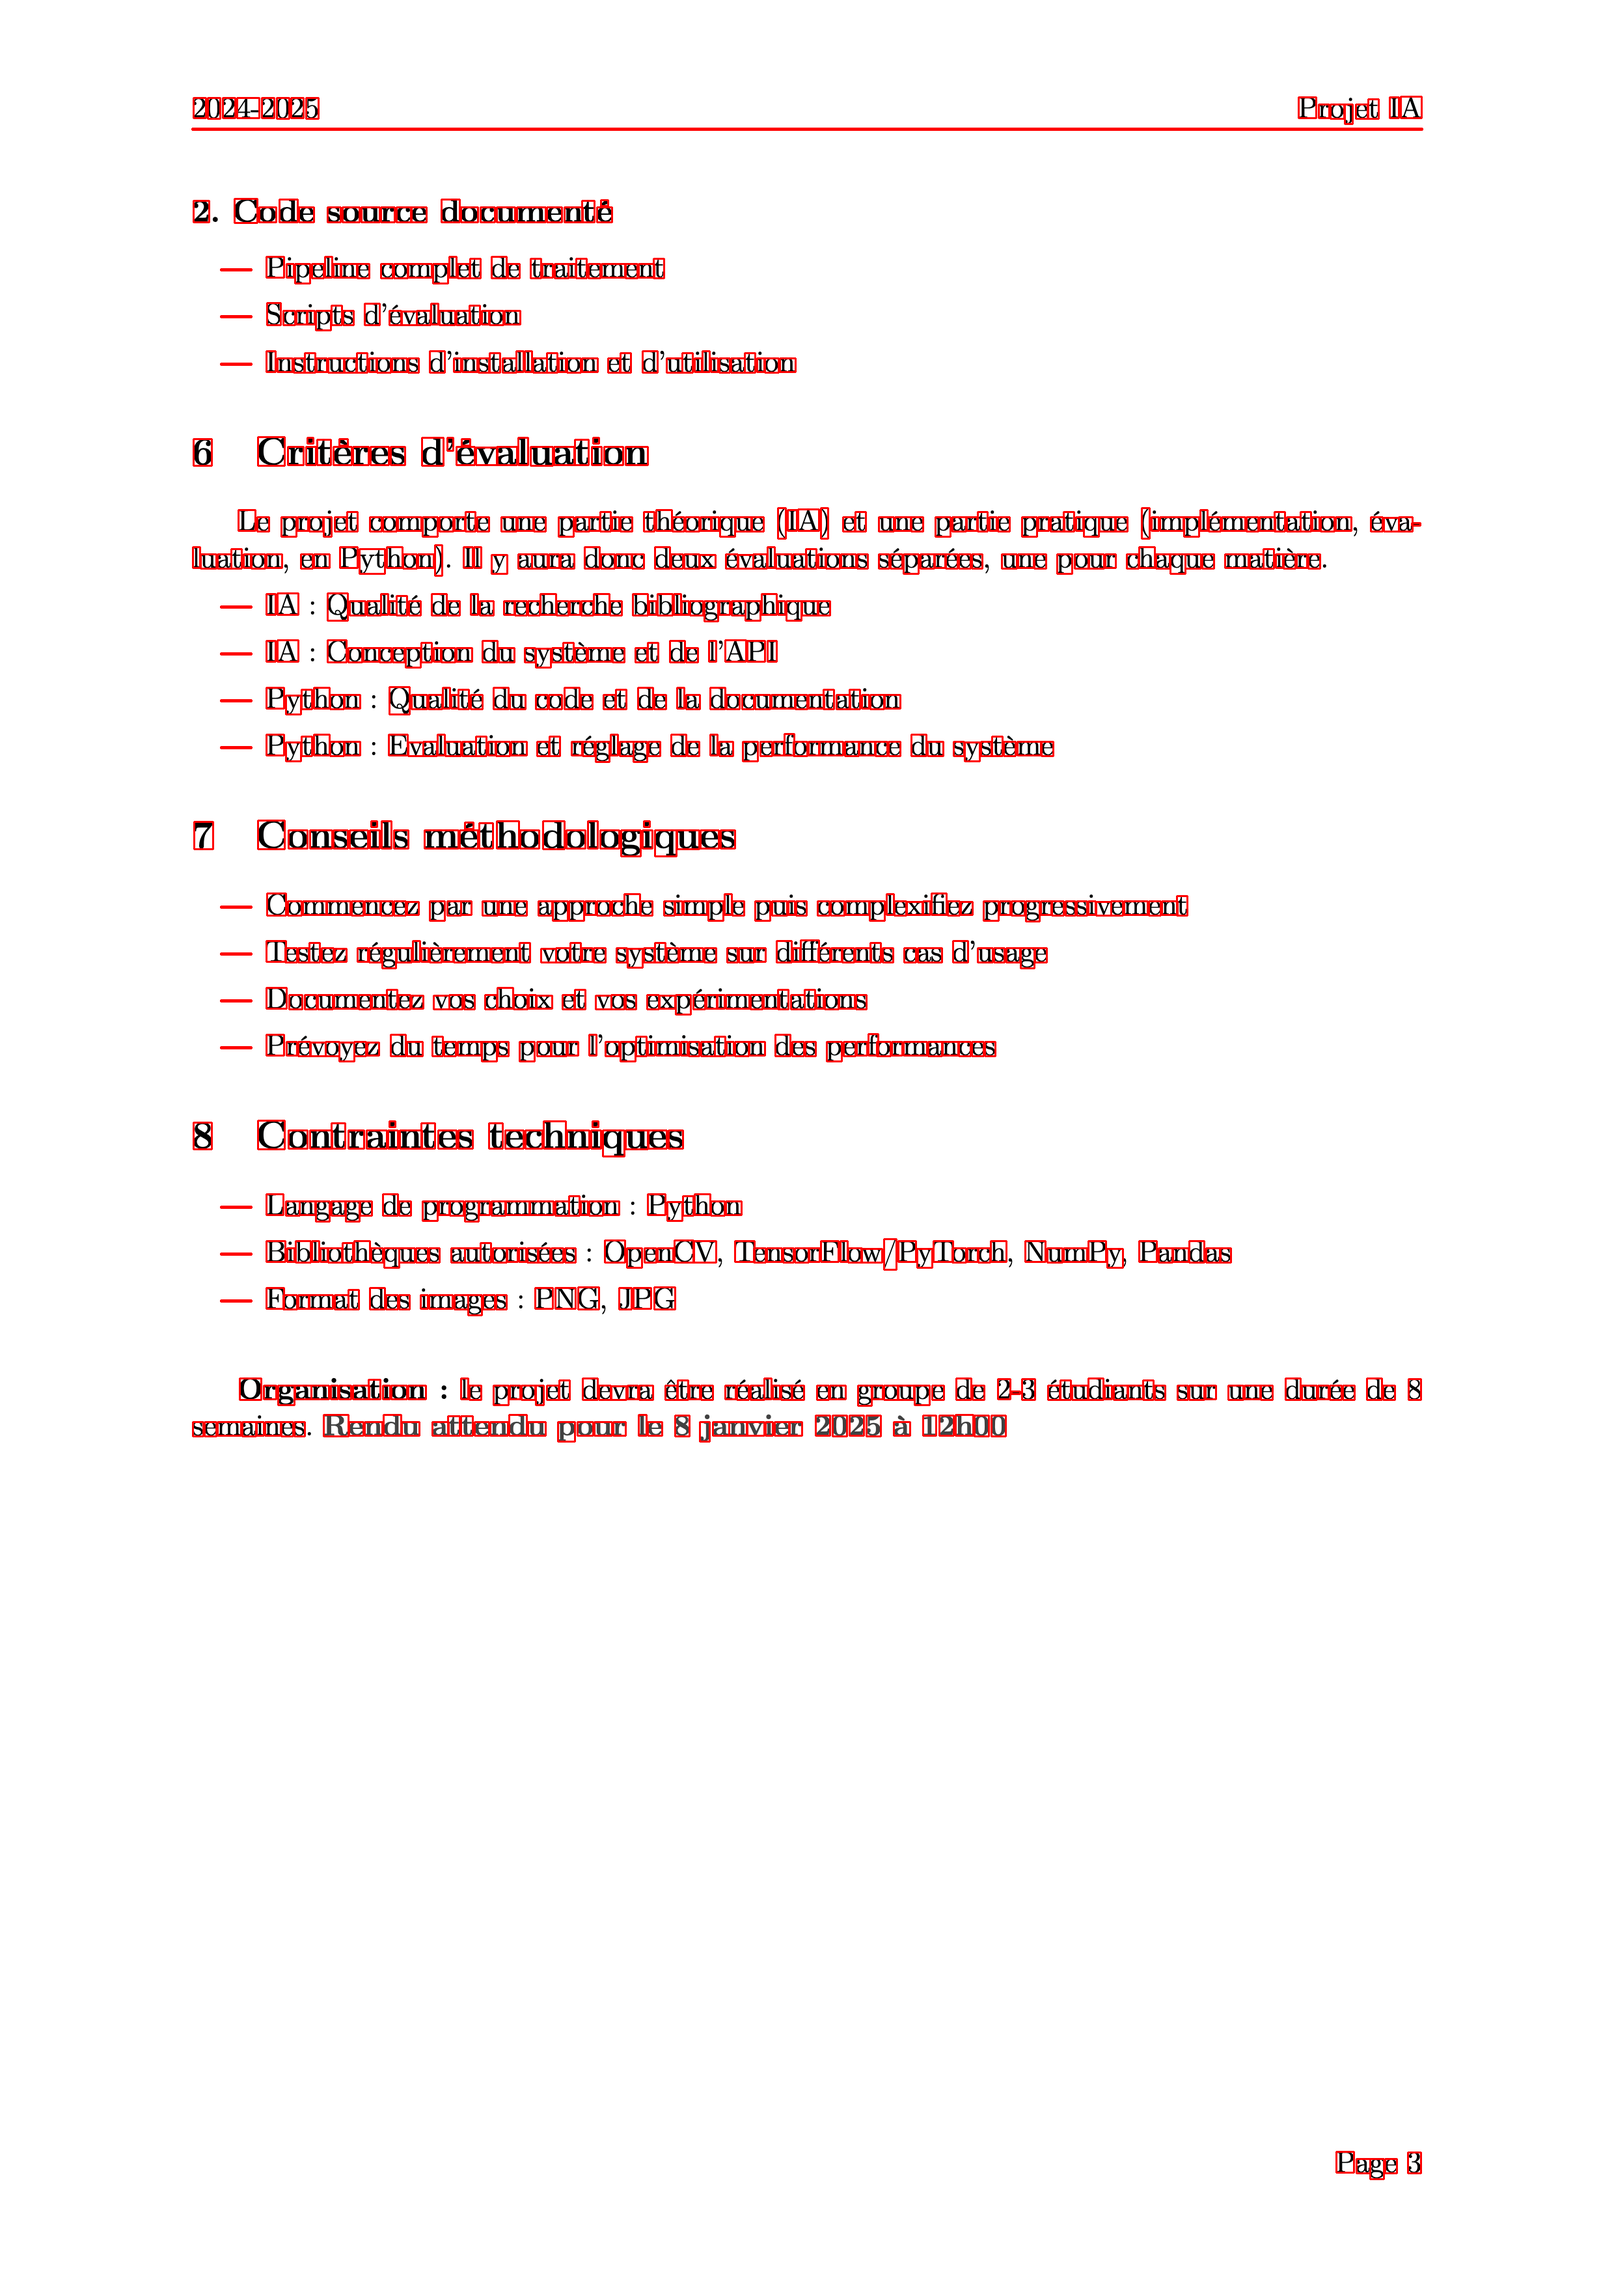
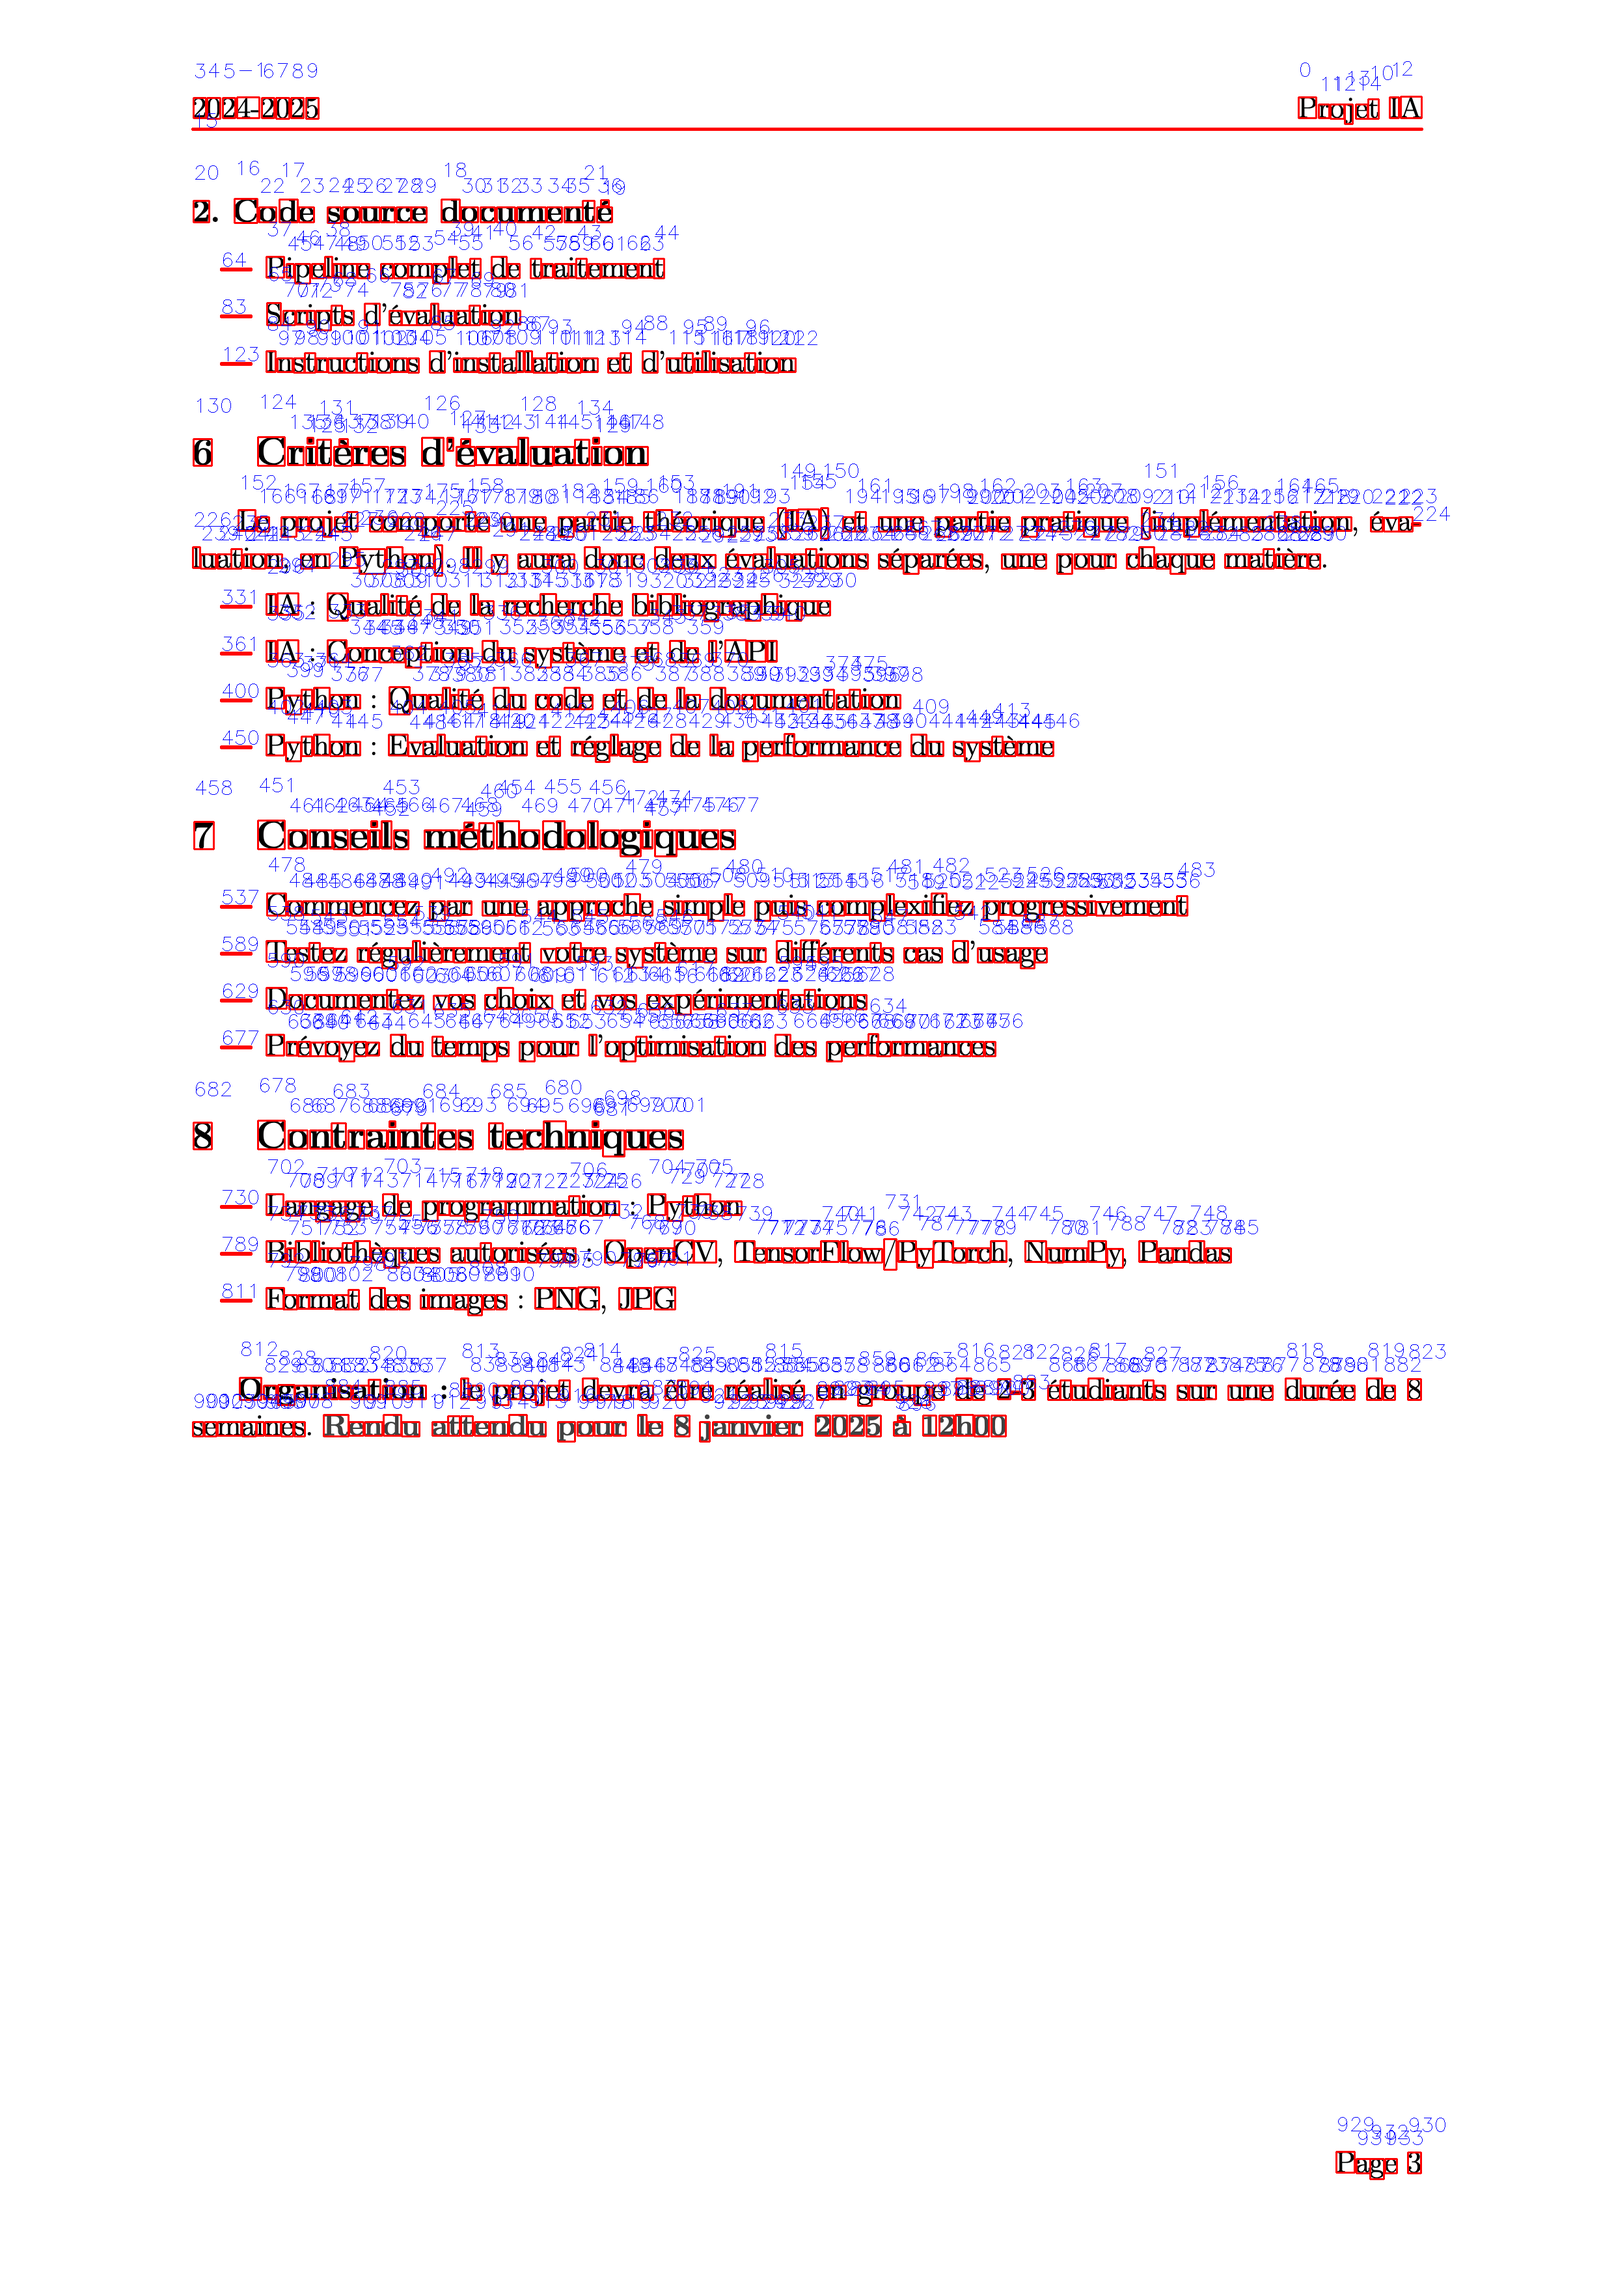
AnalyseCC => montre les composants un à un | Analyse => montre les fichiers apres analyse et sauvegarde

diff --git a/Tools.py b/Tools.py
@@ -40,7 +40,7 @@ def Threshold(image):
 
 
 # Détection des composantes connexes
-def Components_detection(image, binary_image):
+def Components_detection(image, binary_image, nom):
     num_labels, labels, stats, centroids = cv2.connectedComponentsWithStats(
         binary_image
     )
@@ -51,12 +51,24 @@ def Components_detection(image, binary_image):
     # Parcours des objets détectés pour les encadrer
     for i in range(1, num_labels):  # On ignore le fond même s'il est blanc (le 0)
         x, y, w, h, area = stats[i]
+        print(nom)
+        if nom.split("/", 2)[2] == "page":
+            h = 30
         roi = image[y : y + h, x : x + w]
-        if area > 50:  # Filtrer SEULEMENT les petits objets
+        if area > 50:  # Filtres
             components.append((roi, (x, y, w, h)))
             cv2.rectangle(
                 color_image, (x, y), (x + w, y + h), (0, 0, 255), 2
             )  # Ca encadre en rouge
+            cv2.putText(
+                color_image,
+                f"{len(components)-2}",
+                (x, y - h),
+                cv2.FONT_HERSHEY_SIMPLEX,
+                1,
+                (255, 0, 0),
+            )
+    print(f"Nombre de composants : {len(components) - 2}")
     return color_image, components
 
 

diff --git a/Analyse.py b/Analyse.py
@@ -1,13 +1,13 @@
 import Tools
-import cv2
 
 image, nom = Tools.Choix()
-binary_image = Tools.Gaussian_Threshold(image)
-color_image, _ = Tools.Components_detection(image, binary_image)
-
-for i in range(10):
-    roi, (x, y, w, h) = _[i]
-    cv2.imshow("CC", roi)
-    cv2.waitKey(0)
-    cv2.destroyAllWindows()
-# Tools.Display(color_image, nom)
+input = input("1 - Threshold \n2 - Gaussian \n3 - Mean_Threshold\n")
+if input == "1":
+    binary_image = Tools.Threshold(image)
+elif input == "2":
+    binary_image = Tools.Gaussian_Threshold(image)
+elif input == "3":
+    binary_image = Tools.Mean_Threshold(image)
+binary_image = Tools.Mean_Threshold(image)
+color_image, _ = Tools.Components_detection(image, binary_image, nom)
+Tools.Display(color_image, nom)

diff --git a/AnalyseCC.py b/AnalyseCC.py
@@ -1,0 +1,14 @@
+import Tools
+import cv2
+
+image, nom = Tools.Choix()
+binary_image = Tools.Mean_Threshold(image)
+color_image, _ = Tools.Components_detection(image, binary_image, nom)
+
+
+for i in range(10):
+    roi, (x, y, w, h) = _[i]
+    cv2.imshow("CC", roi)
+    cv2.waitKey(0)
+    cv2.destroyAllWindows()
+# Tools.Display(color_image, nom)
